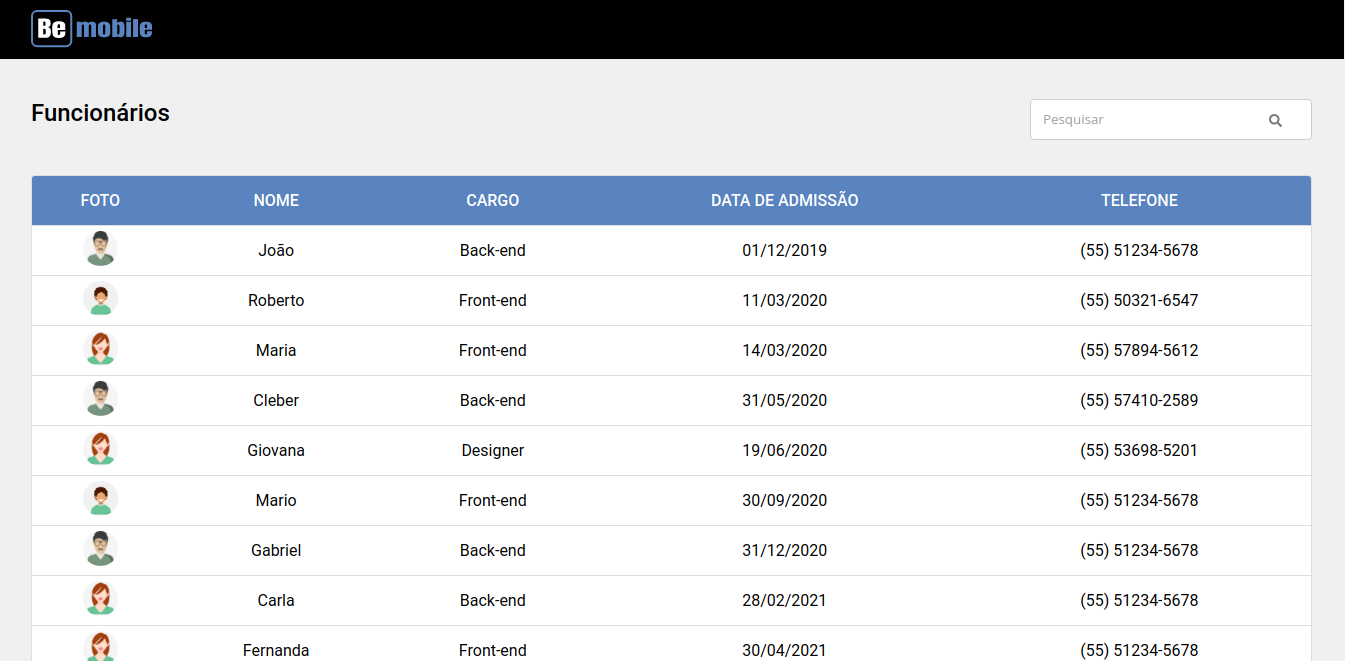
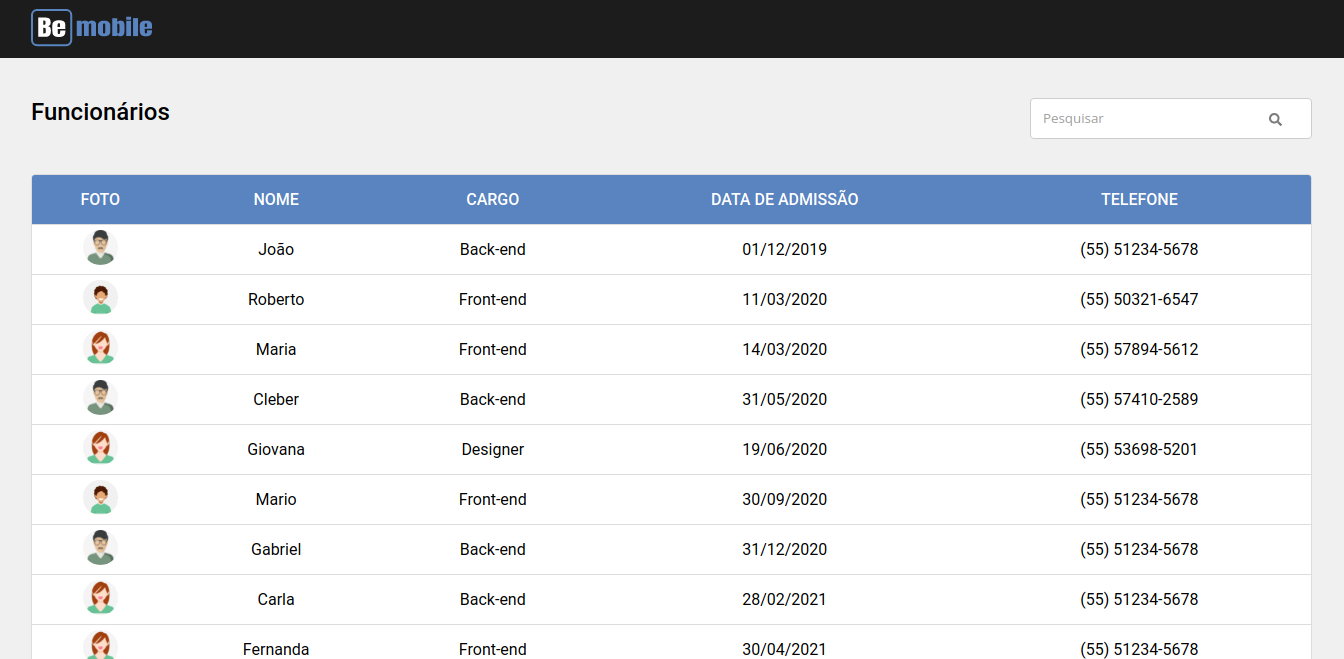
Change black color

diff --git a/src/styles/theme.ts b/src/styles/theme.ts
@@ -3,7 +3,7 @@ export const theme = {
     primary: "#5984c0",
     white: "#fff",
     bg: "#f0f0f0",
-    black: "#000",
+    black: "#1c1c1c",
     gray100: "#ddd",
     gray200: "#cdcdcd",
     gray300: "#9e9e9e",
